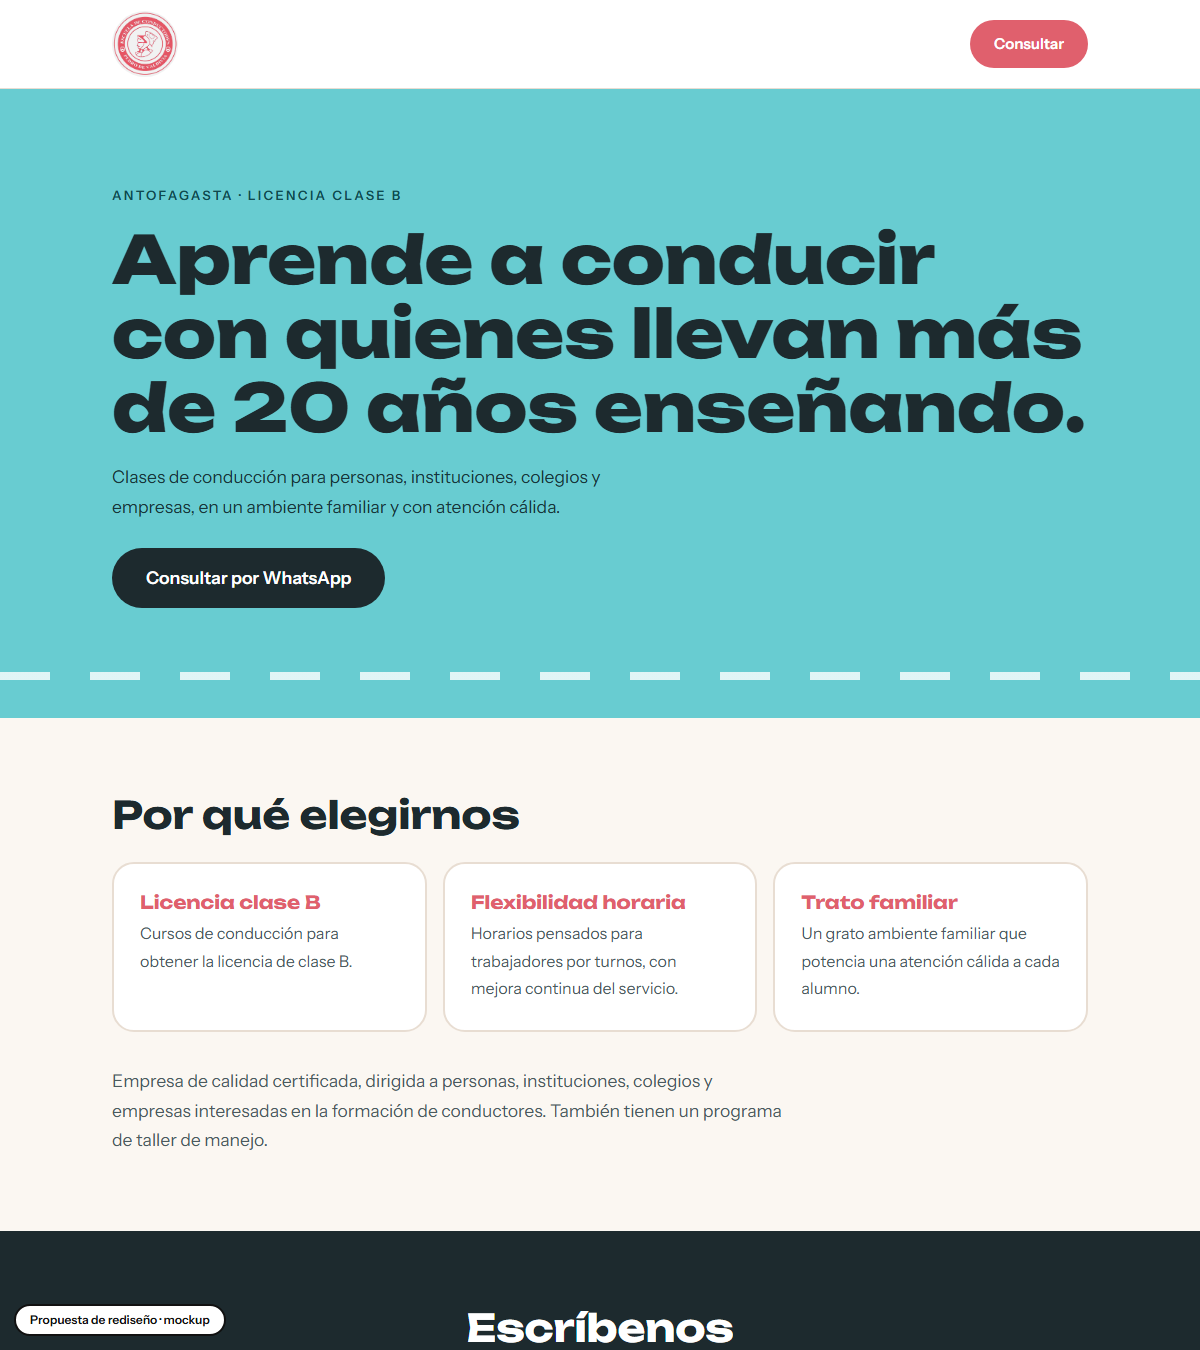
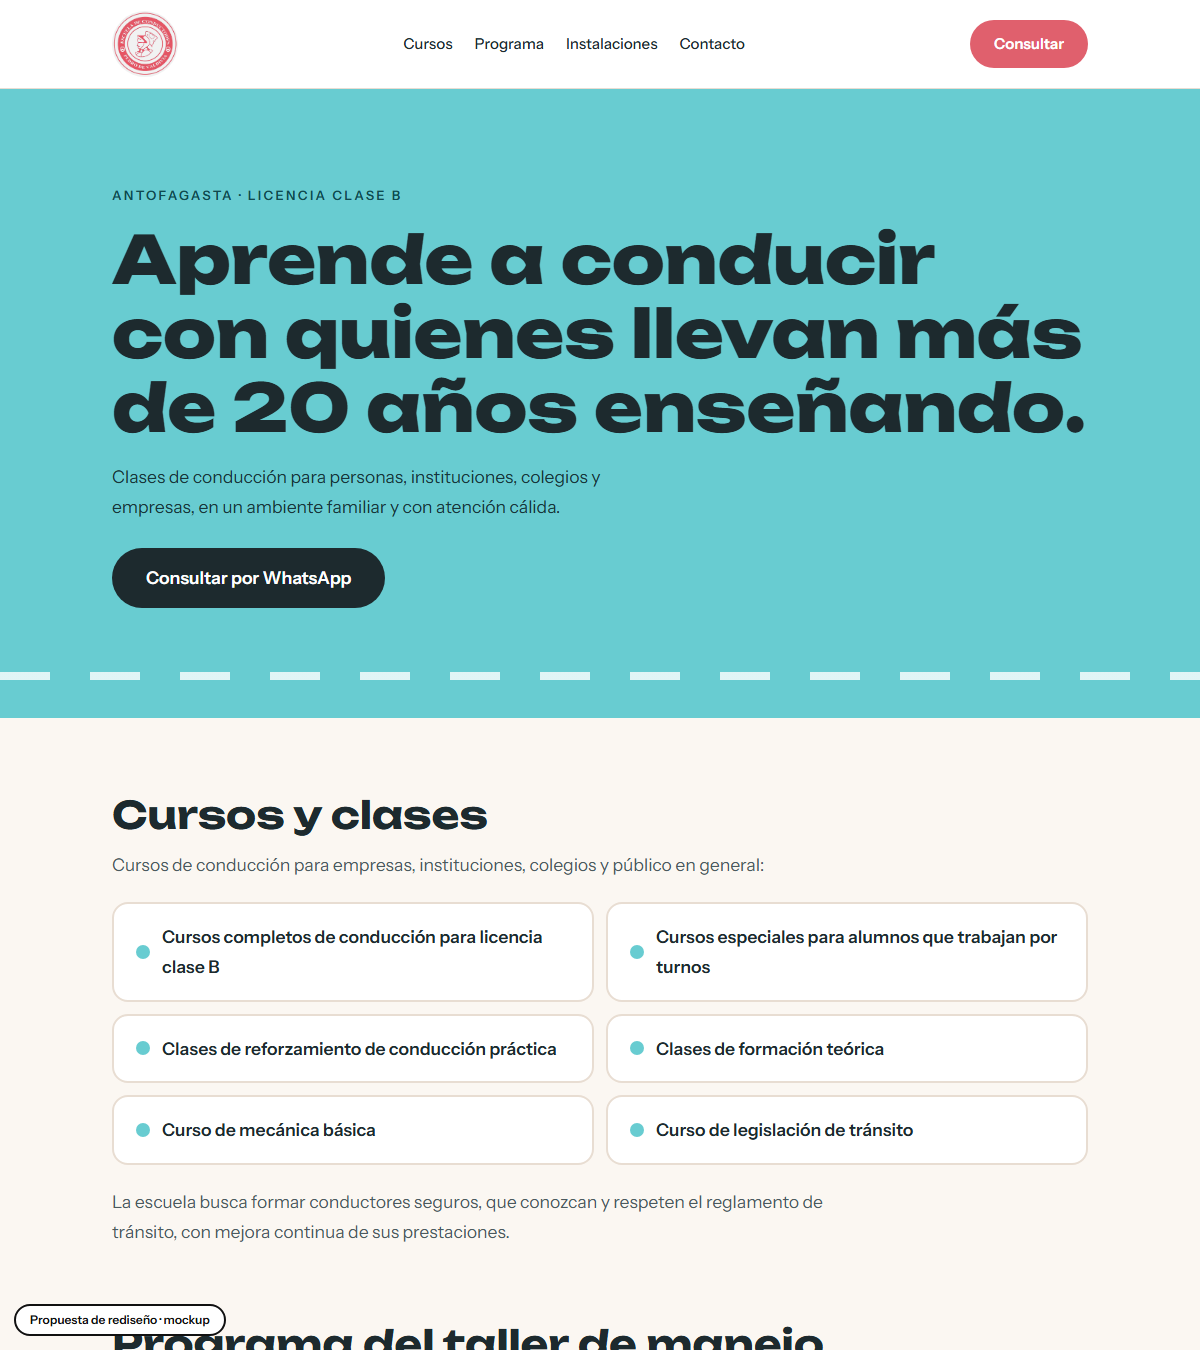
Mockup: escuela-conductores-pedro-de-valdivia-antofagasta

diff --git a/escuela-conductores-pedro-de-valdivia-antofagasta/index.html b/escuela-conductores-pedro-de-valdivia-antofagasta/index.html
@@ -6,12 +6,12 @@
 <link href="https://fonts.googleapis.com/css2?family=Unbounded:wght@500;700;800&family=Instrument+Sans:wght@400;500;600&display=swap" rel="stylesheet">
 <style>
 :root{--coral:#e0606d;--teal:#68ccd1;--ink:#1d2a2e;--paper:#fbf7f2;--line:#e8ddd2}
-*{box-sizing:border-box;margin:0}html{scroll-behavior:smooth}
+*{box-sizing:border-box;margin:0}html{scroll-behavior:smooth;scroll-padding-top:100px}
 @media(prefers-reduced-motion:reduce){html{scroll-behavior:auto}}
 body{background:var(--paper);color:var(--ink);font:400 17.5px/1.7 'Instrument Sans',sans-serif}
 .wrap{max-width:1020px;margin:0 auto;padding:0 22px}
 h1,h2,h3{font-family:Unbounded,sans-serif;line-height:1.12}
-header{background:#fff;border-bottom:1px solid var(--line)}header .wrap{display:flex;justify-content:space-between;align-items:center;height:88px;gap:12px}
+header{position:sticky;top:0;z-index:20;background:#fff;border-bottom:1px solid var(--line)}header .wrap{display:flex;justify-content:space-between;align-items:center;height:88px;gap:12px}
 header img{height:66px;width:66px;object-fit:cover;border-radius:50%}
 header a.b{background:var(--coral);color:#fff;text-decoration:none;padding:11px 24px;border-radius:30px;font-weight:600;font-size:15px}
 header a.b:hover{background:var(--ink)}
@@ -31,16 +31,14 @@ section{padding:76px 0}h2{font-size:clamp(24px,3.6vw,38px);font-weight:700;margi
 .contact a.l{display:block;font:700 clamp(30px,5.4vw,56px) Unbounded;color:var(--teal);text-decoration:none;margin:10px 0}.contact a.l:hover{color:#fff}
 .contact p{color:#cfd9db}
 footer{padding:22px 0 90px;text-align:center;font-size:13px;color:#78878a}
-.mock{position:fixed;left:14px;bottom:14px;background:#fff;color:#111;border:2px solid #111;font:600 12px/1 'Instrument Sans';padding:8px 14px;border-radius:30px;z-index:9}
+.mock{z-index:30;position:fixed;left:14px;bottom:14px;background:#fff;color:#111;border:2px solid #111;font:600 12px/1 'Instrument Sans';padding:8px 14px;border-radius:30px;z-index:9}
 @media(max-width:820px){.g3{grid-template-columns:1fr}.hero .wrap{padding:52px 22px 84px}}
-</style></head><body>
-<header><div class="wrap"><img src="assets/494685-aa948909421d47c4baeb2007ffa7dd5e-1920w.png" alt="Escuela de Conductores Pedro de Valdivia"><a class="b" href="https://wa.me/56956954793?text=Hola%2C%20quisiera%20informaci%C3%B3n%20sobre%20el%20curso%20de%20conducci%C3%B3n">Consultar</a></div></header>
+nav{display:flex;gap:22px;font-size:15px;font-weight:500}nav a{color:var(--ink);text-decoration:none}nav a:hover{color:var(--coral)}.list{display:grid;grid-template-columns:1fr 1fr;gap:12px;margin-top:22px}.list div{background:#fff;border:2px solid var(--line);border-radius:16px;padding:18px 22px;font-weight:600;display:flex;gap:12px;align-items:center}.list div:before{content:"";flex:0 0 14px;height:14px;border-radius:50%;background:var(--teal)}.cols{display:grid;grid-template-columns:1fr 1fr;gap:18px;margin-top:24px}.cols>div{background:#fff;border:2px solid var(--line);border-radius:22px;padding:28px}.cols h3{font-size:18px;color:var(--coral);margin-bottom:10px}.cols ul{list-style:none;padding:0}.cols li{padding:5px 0 5px 24px;position:relative;font-size:16px;color:#3e4f53}.cols li:before{content:"→";position:absolute;left:0;color:var(--coral)}.info{background:var(--ink);color:#fff}.info h2{color:#fff}.info .g3 div{background:#26383d;border-color:#344a50}.info .g3 h3{color:var(--teal)}.info .g3 p{color:#cfd9db}.note{margin-top:22px;max-width:62ch;color:#4b5a5e}@media(max-width:820px){nav{display:none}.list,.cols{grid-template-columns:1fr}}</style></head><body>
+<header><div class="wrap"><img src="assets/494685-aa948909421d47c4baeb2007ffa7dd5e-1920w.png" alt="Escuela de Conductores Pedro de Valdivia"><nav><a href="#cursos">Cursos</a><a href="#programa">Programa</a><a href="#instalaciones">Instalaciones</a><a href="#contacto">Contacto</a></nav><a class="b" href="https://wa.me/56956954793?text=Hola%2C%20quisiera%20informaci%C3%B3n%20sobre%20el%20curso%20de%20conducci%C3%B3n">Consultar</a></div></header>
 <div class="hero"><div class="wrap"><small>Antofagasta · Licencia clase B</small><h1>Aprende a conducir con quienes llevan más de 20 años enseñando.</h1><p>Clases de conducción para personas, instituciones, colegios y empresas, en un ambiente familiar y con atención cálida.</p><a class="btn" href="https://wa.me/56956954793?text=Hola%2C%20quisiera%20informaci%C3%B3n%20sobre%20el%20curso%20de%20conducci%C3%B3n">Consultar por WhatsApp</a></div><div class="road"></div></div>
-<section><div class="wrap"><h2>Por qué elegirnos</h2><div class="g3">
-<div><h3>Licencia clase B</h3><p>Cursos de conducción para obtener la licencia de clase B.</p></div>
-<div><h3>Flexibilidad horaria</h3><p>Horarios pensados para trabajadores por turnos, con mejora continua del servicio.</p></div>
-<div><h3>Trato familiar</h3><p>Un grato ambiente familiar que potencia una atención cálida a cada alumno.</p></div></div>
-<p style="margin-top:34px;max-width:58ch;color:#4b5a5e">Empresa de calidad certificada, dirigida a personas, instituciones, colegios y empresas interesadas en la formación de conductores. También tienen un programa de taller de manejo.</p></div></section>
+<section id="cursos"><div class="wrap"><h2>Cursos y clases</h2><p style="max-width:62ch;color:#4b5a5e">Cursos de conducción para empresas, instituciones, colegios y público en general:</p><div class="list"><div>Cursos completos de conducción para licencia clase B</div><div>Cursos especiales para alumnos que trabajan por turnos</div><div>Clases de reforzamiento de conducción práctica</div><div>Clases de formación teórica</div><div>Curso de mecánica básica</div><div>Curso de legislación de tránsito</div></div><p class="note">La escuela busca formar conductores seguros, que conozcan y respeten el reglamento de tránsito, con mejora continua de sus prestaciones.</p></div></section>
+<section id="programa" style="padding-top:0"><div class="wrap"><h2>Programa del taller de manejo</h2><p style="max-width:64ch;color:#4b5a5e">Formación teórica y práctica para un aprendizaje adecuado. El curso incluye el libro <em>Para la Conducción en Chile</em> y práctica del examen psicotécnico en horario de oficina.</p><div class="cols"><div><h3>Formación teórica</h3><ul><li>Responsabilidad del conductor</li><li>Legislación de tránsito</li><li>Apoyo permanente del profesor para un aprendizaje óptimo</li></ul></div><div><h3>Formación práctica</h3><ul><li>Práctica en vehículos con doble comando</li><li>Instrucción progresiva, según el avance del alumno</li><li>Pre-conducción: conocimiento y uso de los componentes</li><li>Tránsito liviano: salidas y detenciones en vía pública</li><li>Pendientes: salidas en pendientes y bajadas</li><li>Virajes, cambio de pista y uso de espejos</li></ul></div></div><p class="note">Las clases prácticas son de lunes a viernes, de 1 hora y 30 minutos diarios. Los horarios se reservan al momento de la inscripción.</p></div></section>
+<section class="info" id="instalaciones"><div class="wrap"><h2>Instalaciones y condiciones</h2><div class="g3"><div><h3>Sala audiovisual</h3><p>Formación teórica con videos, diapositivas y paneles.</p></div><div><h3>Laboratorio psicotécnico</h3><p>Laboratorio de control psicotécnico y psicométrico.</p></div><div><h3>Doble comando</h3><p>Vehículos equipados para una enseñanza segura, con instructores muy calificados y con vasta experiencia.</p></div><div><h3>Convenios y pagos</h3><p>El valor depende del plan y servicio. Diversas formas de pago y convenios con empresas e instituciones.</p></div><div><h3>Descuento grupal</h3><p>Descuentos por inscripciones en conjunto (dos o más personas).</p></div><div><h3>Flexibilidad</h3><p>Programación del curso según la disponibilidad del cliente.</p></div></div></div></section>
 <section class="contact" id="contacto"><div class="wrap"><h2>Escríbenos</h2><a class="l" href="https://wa.me/56956954793">+56 9 5695 4793</a><p>Esmeralda 2225, oficina 1, Antofagasta · Tel. (55) 225 1464<br><a style="color:#fff" href="mailto:informaciones@escueladeconductorespdv.cl">informaciones@escueladeconductorespdv.cl</a></p></div></section>
 <footer>ESCUELA DE CONDUCTORES PEDRO DE VALDIVIA · ANTOFAGASTA</footer>
 <div class="mock">Propuesta de rediseño · mockup</div></body></html>
